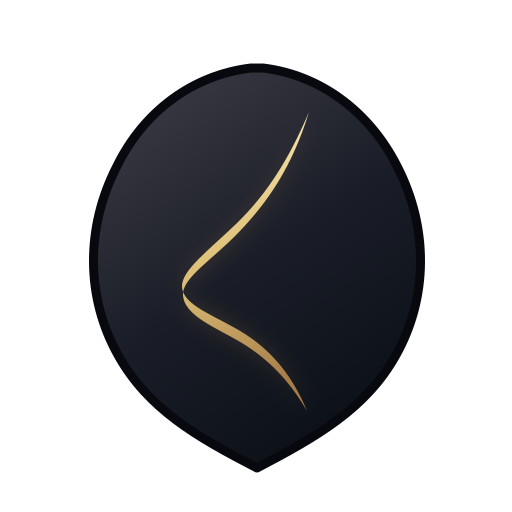
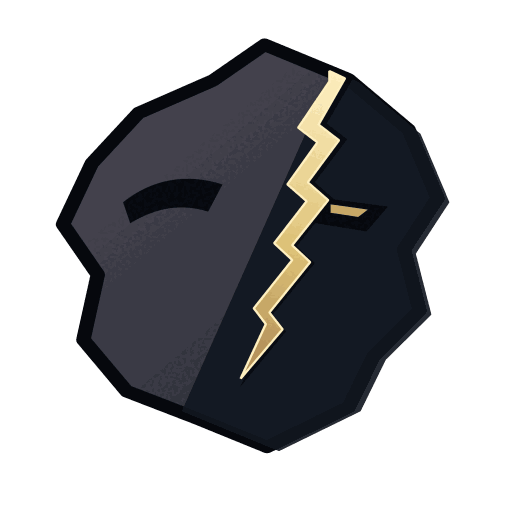
Replace clocklike emblem with a fractured spirit mask

Changed region(s): [[0.0938, 0.0625, 0.875, 0.9375], [0.4688, 0.25, 0.5, 0.2812]]

diff --git a/docs/qa/REALM_SYMBOLS_20261022.md b/docs/qa/REALM_SYMBOLS_20261022.md
@@ -1,11 +1,11 @@
 # Símbolos dos reinos e ícone dark do jogo
 
-Os três emblemas dos mundos usam símbolos vetoriais transparentes com contorno preto para destacar suas silhuetas sem adicionar molduras. Inferno usa uma chama serrilhada; Paraíso, linhas abertas e fluidas com um foco de luz; Limbo, elos interrompidos. O ícone do jogo agora é uma sombra assimétrica de eclipse atravessada por uma única fenda curva de luz, como o véu se abrindo. A forma evita molduras circulares, ponteiros e detalhes gravados; o nome P.M.A. permanece no wordmark da interface. O SVG e os PNGs continuam sem fundo e substituem a marca no cabeçalho e os ícones de instalação.
+Os três emblemas dos mundos usam símbolos vetoriais transparentes com contorno preto para destacar suas silhuetas sem adicionar molduras. Inferno usa uma chama serrilhada; Paraíso, linhas abertas e fluidas com um foco de luz; Limbo, elos interrompidos. O ícone do jogo agora mostra uma máscara espiritual angular, de planos assimétricos, cortada por uma fenda diagonal dourada. A forma não usa aro, eixo central, ponteiro, boca ou marcas radiais; os olhos desiguais mantêm a leitura de máscara anime e evocam o véu rompido. O nome P.M.A. permanece no wordmark da interface. O SVG e os PNGs seguem transparentes e aparecem no cabeçalho e nos ícones de instalação.
 
 ## Verificação
 
 - Os emblemas dos mundos mantêm o fundo transparente e incluem contorno preto nos motivos principais.
 - O ícone SVG não tem placa ou fundo; os PNGs exportados têm transparência e 192 × 192 e 512 × 512.
-- O símbolo tem uma única silhueta e uma única fenda, sem anel, ponteiro ou marcas radiais que possam sugerir um relógio.
+- O símbolo tem uma silhueta e uma fenda diagonais, sem anel ou eixo central que possam sugerir um relógio.
 - Os PNGs foram decodificados e os arquivos aparecem nos caminhos usados pelo cabeçalho, favicon, manifesto e cartões dos reinos.
 - `node --test --test-skip-pattern='o trio inicial tem retrato|os sessenta e sete personagens seguintes'`: 134 aprovados. Dois testes do acervo antigo foram omitidos porque as imagens pré-existentes correspondentes não estão nesta cópia parcial.
